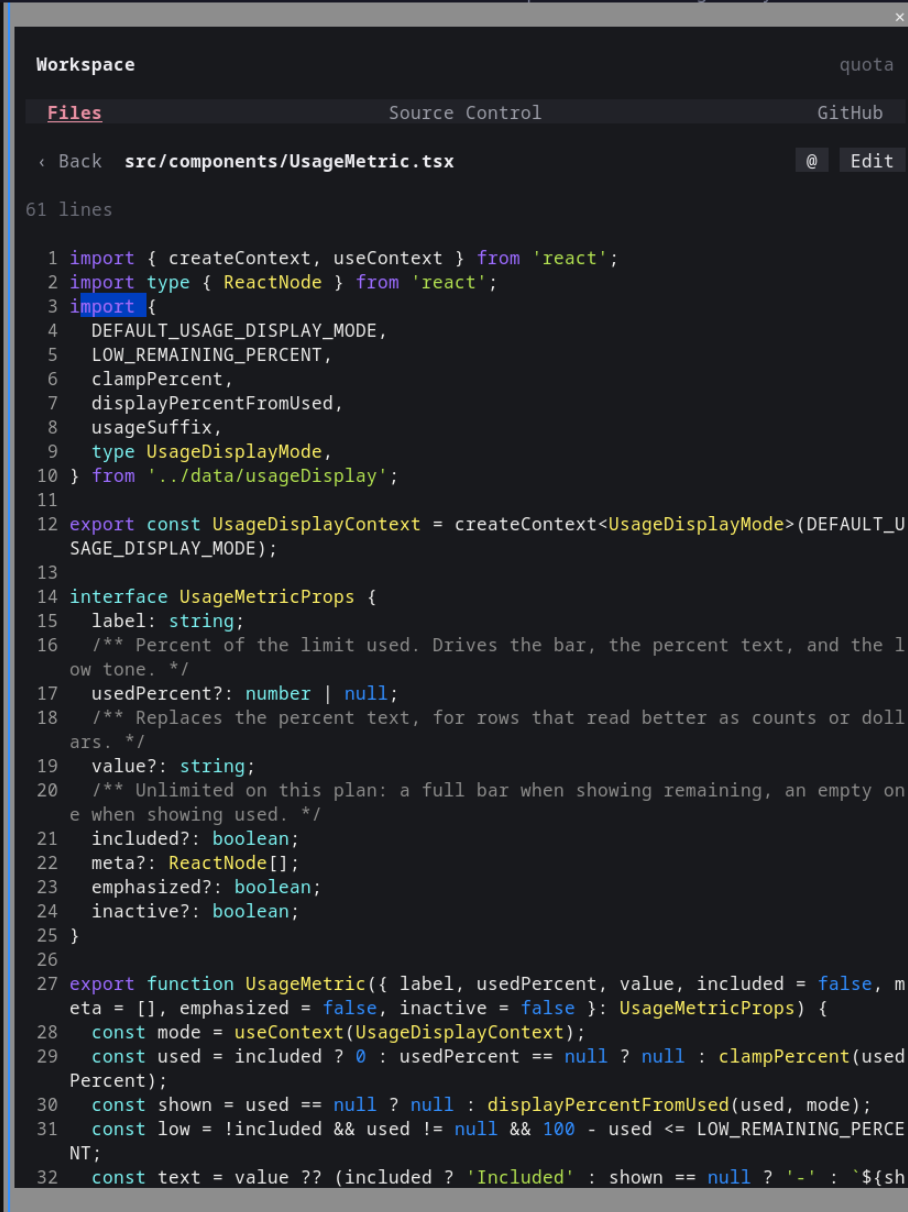
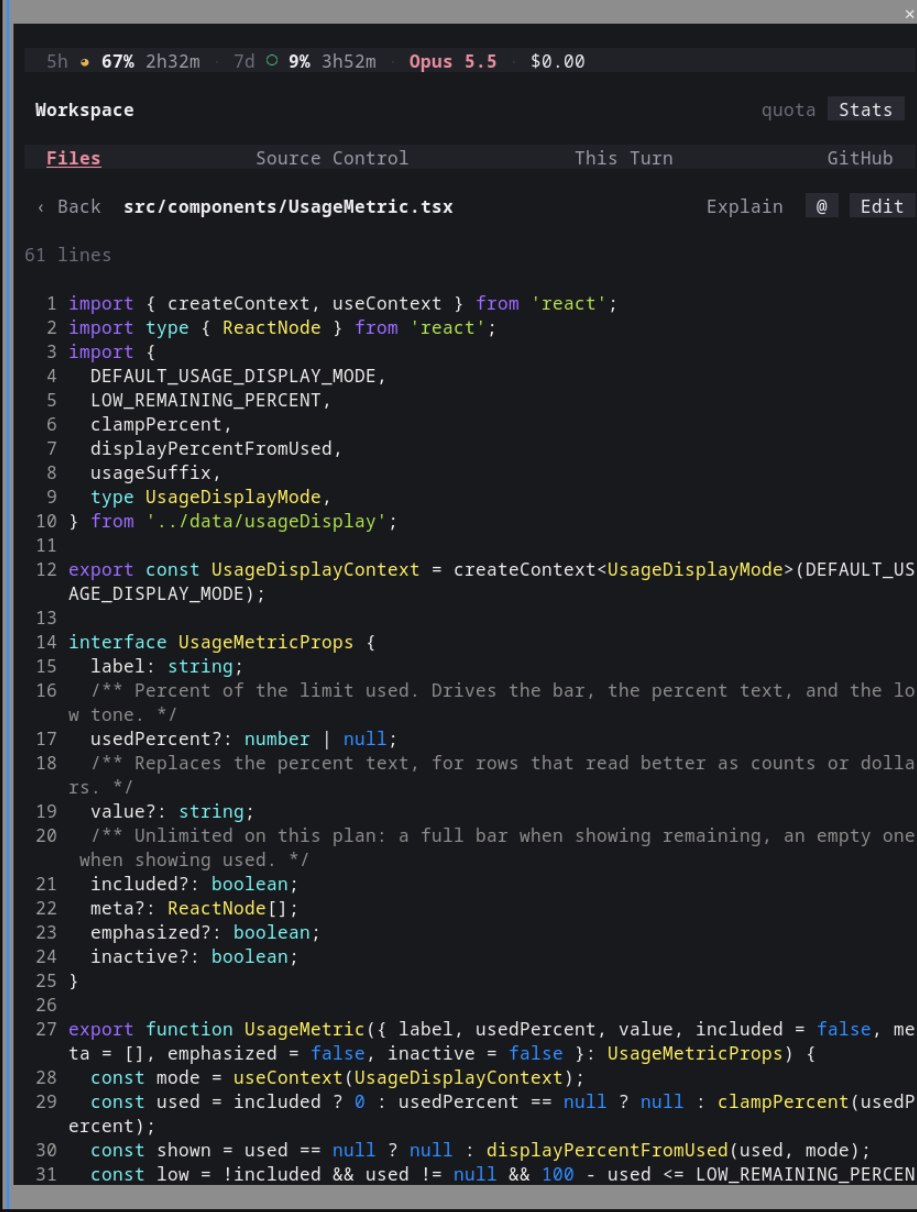
docs: describe the full pane in the README and refresh screenshots
- Lead the README with the Claude-aware features and add a short
  overview of each tab and the stats strip
- Retake every screenshot and add one for This Turn
- Shorten the plugin and marketplace descriptions to match
- Call it the stats strip everywhere

diff --git a/README.md b/README.md
@@ -10,11 +10,25 @@ What's in the pane:
 - **GitHub**: open pull requests and issues, with CI and review status
 - **Stats strip**: 5 hour and 7 day usage, context, model and cost along the top
 
-| Files | Viewing a file | Source Control |
-| :---: | :---: | :---: |
-| <img src="screenshots/file-list.png" width="260" alt="The Files tab listing a project's folders and files with their sizes"> | <img src="screenshots/file-view.png" width="260" alt="A Rust file open in the viewer with syntax highlighting and line numbers"> | <img src="screenshots/source-control.png" width="260" alt="The Source Control tab with the branch picker, Fetch, Pull and Push, and the Changes, History, Branches and Stash views"> |
-| **History** | **Branches** | **GitHub** |
-| <img src="screenshots/history.png" width="260" alt="The History view listing recent commits with their age, short hash and a Revert button"> | <img src="screenshots/branches.png" width="260" alt="The Branches view with Merge and Rebase, local branches with Switch, Rename and Delete, and remote branches with Check out"> | <img src="screenshots/github.png" width="260" alt="The GitHub tab listing a repo's open issues with their author, age and @ buttons"> |
+<div align="center">
+
+<table>
+  <tr>
+    <td align="center"><b>Files</b><br><img src="screenshots/file-list.png" width="225" alt="The Files tab listing a project's folders and files with their sizes"></td>
+    <td align="center"><b>Viewing a file</b><br><img src="screenshots/file-view.png" width="225" alt="A Rust file open in the viewer with syntax highlighting and line numbers"></td>
+    <td align="center"><b>This Turn</b><br><img src="screenshots/this-turn.png" width="225" alt="The This Turn tab listing five files Claude edited with their added and removed line counts, Review and revert buttons, under the stats strip"></td>
+    <td align="center"><b>Source Control</b><br><img src="screenshots/source-control.png" width="225" alt="The Source Control tab with the branch picker, Fetch, Pull and Push, and the Changes, History, Branches and Stash views"></td>
+  </tr>
+</table>
+<table>
+  <tr>
+    <td align="center"><b>History</b><br><img src="screenshots/history.png" width="225" alt="The History view listing recent commits with their age, short hash and a Revert button"></td>
+    <td align="center"><b>Branches</b><br><img src="screenshots/branches.png" width="225" alt="The Branches view with Merge and Rebase, local branches with Switch, Rename and Delete, and remote branches with Check out"></td>
+    <td align="center"><b>GitHub</b><br><img src="screenshots/github.png" width="225" alt="The GitHub tab listing a repo's open issues with their author, age and @ buttons"></td>
+  </tr>
+</table>
+
+</div>
 
 ## Features
 
